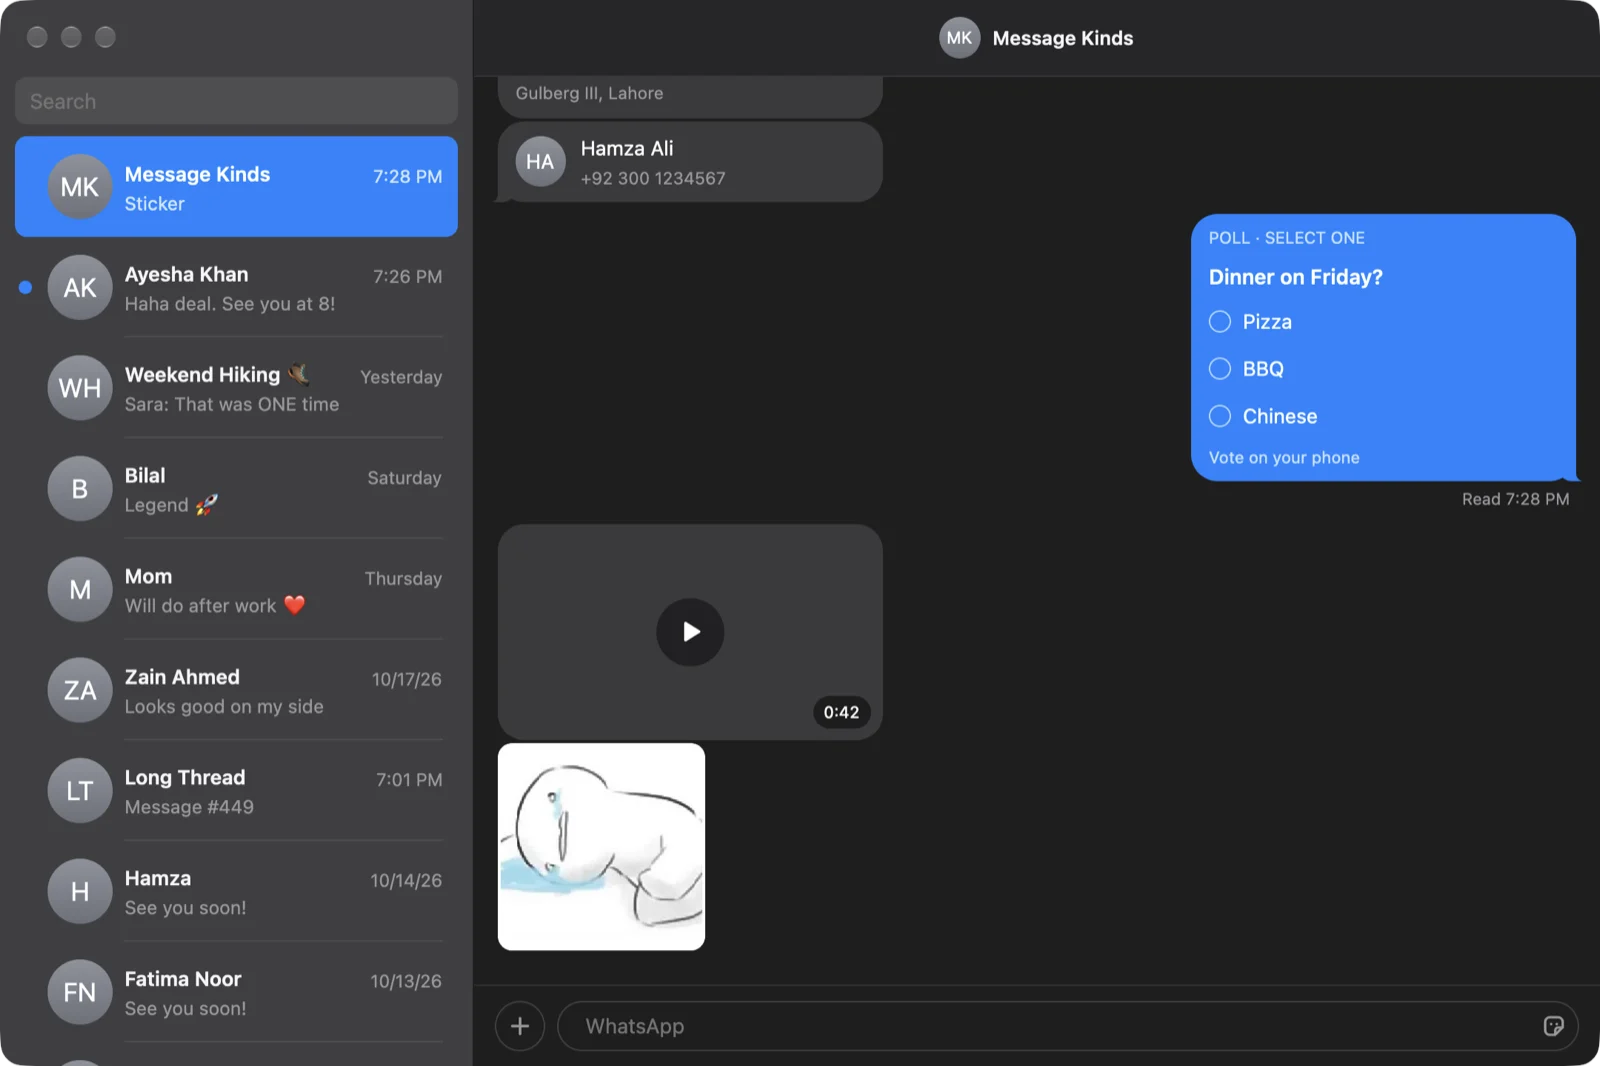
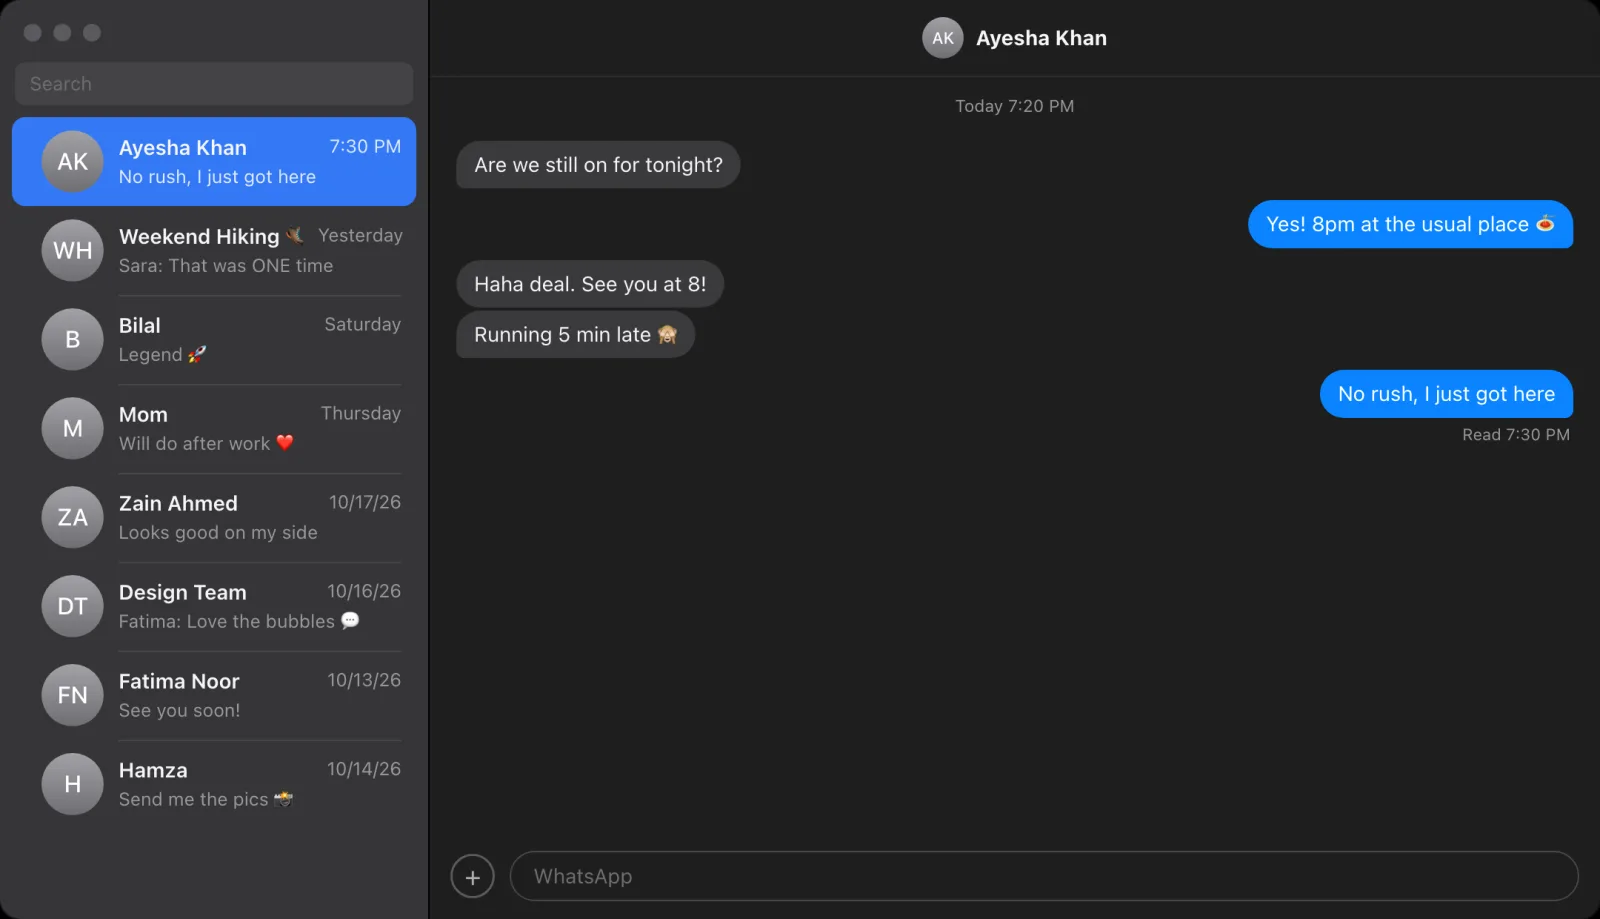
Replace the website screenshot with a live, clickable app replica
Messages arrive and get answered on their own; visitors can pick any
conversation or send a message. The social preview image is regenerated
from it, so no real sticker or chat content is published.

diff --git a/site/public/demo.js b/site/public/demo.js
@@ -1,0 +1,289 @@
+// A live, clickable replica of the app window: messages arrive, the "user" replies,
+// and visitors can pick any conversation or type their own message.
+
+const chats = [
+  { id: 'ayesha', name: 'Ayesha Khan', time: '7:26 PM', msgs: [
+    { text: 'Are we still on for tonight?' },
+    { out: true, text: 'Yes! 8pm at the usual place 🍝' },
+    { text: 'Haha deal. See you at 8!' },
+  ] },
+  { id: 'hiking', name: 'Weekend Hiking 🥾', group: true, time: 'Yesterday', msgs: [
+    { from: 'Sara', text: 'Who is bringing snacks this time?' },
+    { from: 'Bilal', text: 'I got chips. Last time I forgot the water…' },
+    { from: 'Sara', text: 'That was ONE time' },
+  ] },
+  { id: 'bilal', name: 'Bilal', time: 'Saturday', msgs: [
+    { out: true, text: 'Shipped it 🎉' },
+    { text: 'Legend 🚀' },
+  ] },
+  { id: 'mom', name: 'Mom', time: 'Thursday', msgs: [
+    { text: 'Call me when you are free' },
+    { out: true, text: 'Will do after work ❤' },
+  ] },
+  { id: 'zain', name: 'Zain Ahmed', time: '10/17/26', msgs: [
+    { out: true, text: 'Can you review the deck?' },
+    { text: 'Looks good on my side' },
+  ] },
+  { id: 'design', name: 'Design Team', group: true, time: '10/16/26', msgs: [
+    { from: 'Hamza', text: 'New icons are in Figma' },
+    { from: 'Fatima', text: 'Love the bubbles 💬' },
+  ] },
+  { id: 'fatima', name: 'Fatima Noor', time: '10/13/26', msgs: [{ text: 'See you soon!' }] },
+  { id: 'hamza', name: 'Hamza', time: '10/14/26', msgs: [{ text: 'Send me the pics 📸' }] },
+];
+
+// What happens next. `select` and `reply` stand down while the visitor is driving.
+const script = [
+  ['wait', 1400], ['in', 'ayesha', ['Running 5 min late 🙈', 'Parking now, 2 min!', 'Grabbing a table by the window']],
+  ['wait', 600], ['reply', 'ayesha', ['No rush, I just got here', 'Perfect, see you inside', 'Ooh nice, coming']],
+  ['wait', 1300], ['react', 'ayesha', ['❤', '👍', '😂']],
+  ['wait', 1700], ['in', 'hiking', ['Trail starts 7am sharp ⛰', 'Forecast says sunny ☀', 'Who has the first-aid kit?'], 'Bilal'],
+  ['wait', 1700], ['select', 'hiking'],
+  ['wait', 800], ['in', 'hiking', ['Bringing coffee for everyone ☕', 'I will bring the speaker 🔊', 'Meet at the gas station?'], 'Sara'],
+  ['wait', 500], ['reply', 'hiking', ["I'll drive 🚗", 'Count me in!', 'I have the kit 🩹']],
+  ['wait', 1900], ['in', 'mom', ['Did you eat?', 'Are you home yet?', 'Don’t forget your jacket']],
+  ['wait', 1500], ['select', 'mom'],
+  ['wait', 600], ['reply', 'mom', ['Yes mom, biryani 😋', 'Almost home!', 'Wearing it 🧥']],
+  ['wait', 1300], ['react', 'mom', ['❤', '❤', '👍']],
+  ['wait', 1800], ['in', 'zain', ['Pushed the fix, can you check?', 'Standup moved to 10', 'Lunch tomorrow?']],
+  ['wait', 1600], ['select', 'ayesha'],
+  ['wait', 2600],
+];
+
+const visitorReplies = [
+  'Haha, I see you found the demo 😄',
+  'This is a preview. The real thing runs on your Mac 💻',
+  'Download it and say hi from WhatsRusty!',
+  '😂😂',
+];
+
+export function startDemo(root) {
+  const reduce = matchMedia('(prefers-reduced-motion: reduce)').matches;
+  const $ = selector => root.querySelector(selector);
+  const list = $('.d-list'), thread = $('.d-thread'), title = $('.d-head strong'), titleAvatar = $('.d-head .d-av');
+  const form = $('.d-composer'), input = $('.d-input'), banner = $('.d-banner');
+  const byId = new Map(chats.map(chat => [chat.id, chat]));
+  let order = chats.map(chat => chat.id);
+  let selected = byId.get('ayesha');
+  let clock = 7 * 60 + 28;
+  let userUntil = 0;
+  let visible = false, wake = null;
+
+  const now = () => `${Math.floor(clock / 60) % 12 || 12}:${String(clock % 60).padStart(2, '0')} PM`;
+  const pick = (options, round) => options[round % options.length];
+  const userActive = () => Date.now() < userUntil;
+  const waitVisible = () => (visible && !document.hidden ? null : new Promise(resolve => { wake = resolve; }));
+  const sleep = ms => new Promise(resolve => setTimeout(resolve, ms)).then(waitVisible);
+  const wakeUp = () => { if (visible && !document.hidden && wake) { wake(); wake = null; } };
+
+  new IntersectionObserver(([entry]) => { visible = entry.isIntersecting; wakeUp(); }, { threshold: 0.3 }).observe(root);
+  document.addEventListener('visibilitychange', wakeUp);
+
+  function el(tag, className, text) {
+    const node = document.createElement(tag);
+    if (className) node.className = className;
+    if (text != null) node.textContent = text;
+    return node;
+  }
+  function initials(name) {
+    const words = name.split(/\s+/).filter(word => /^\p{L}/u.test(word));
+    return (words.length > 1 ? words[0][0] + words[1][0] : (words[0] ?? '?')[0]).toUpperCase();
+  }
+  function avatar(name, className = 'd-av') {
+    return el('span', className, initials(name));
+  }
+  function preview(chat) {
+    const last = chat.msgs.at(-1);
+    if (!last) return '';
+    return chat.group && !last.out && last.from ? `${last.from}: ${last.text}` : last.text;
+  }
+
+  // Sidebar rows are reused so a focused row keeps focus when the list reorders.
+  const rows = new Map();
+  function rowFor(chat) {
+    let li = rows.get(chat.id);
+    if (!li) {
+      li = el('li');
+      li.dataset.id = chat.id;
+      const button = el('button', 'd-row');
+      button.type = 'button';
+      button.append(el('span', 'd-dot'), avatar(chat.name), el('span', 'd-meta'));
+      button.addEventListener('click', () => { touch(); select(chat); });
+      li.append(button);
+      rows.set(chat.id, li);
+    }
+    const button = li.firstChild;
+    button.classList.toggle('is-selected', chat === selected);
+    button.classList.toggle('is-unread', !!chat.unread);
+    button.setAttribute('aria-current', chat === selected ? 'true' : 'false');
+    button.setAttribute('aria-label', `${chat.name}${chat.unread ? ', unread' : ''}: ${preview(chat)}`);
+    const meta = button.querySelector('.d-meta');
+    const top = el('span', 'd-top');
+    top.append(el('strong', null, chat.name), el('time', null, chat.time));
+    meta.replaceChildren(top, el('span', 'd-preview', preview(chat)));
+    return li;
+  }
+  function renderList() {
+    const before = new Map([...list.children].map(li => [li.dataset.id, li.getBoundingClientRect().top]));
+    const focused = list.contains(document.activeElement) ? document.activeElement : null;
+    for (const id of order) list.append(rowFor(byId.get(id)));
+    if (focused) focused.focus({ preventScroll: true });
+    if (reduce) return;
+    for (const li of list.children) {
+      const top = before.get(li.dataset.id);
+      const dy = top == null ? 0 : top - li.getBoundingClientRect().top;
+      if (dy) li.animate([{ transform: `translateY(${dy}px)` }, { transform: 'none' }], { duration: 380, easing: 'cubic-bezier(0.23, 1, 0.32, 1)' });
+    }
+  }
+
+  function renderThread({ animateLast = false, popReaction = false } = {}) {
+    const chat = selected;
+    title.textContent = chat.name;
+    titleAvatar.textContent = initials(chat.name);
+    const nodes = [el('div', 'd-stamp', 'Today 7:20 PM')];
+    const lastOut = chat.msgs.findLastIndex(msg => msg.out);
+    chat.msgs.forEach((msg, i) => {
+      const prev = chat.msgs[i - 1], next = chat.msgs[i + 1];
+      const sameAsPrev = prev && !!prev.out === !!msg.out && prev.from === msg.from;
+      const sameAsNext = next && !!next.out === !!msg.out && next.from === msg.from;
+      if (chat.group && !msg.out && !sameAsPrev) nodes.push(el('div', 'd-sender', msg.from));
+      const line = el('div', `d-line ${msg.out ? 'out' : 'in'}${sameAsPrev ? '' : ' first'}`);
+      if (chat.group && !msg.out) line.append(sameAsNext ? el('span', 'd-av-slot') : avatar(msg.from, 'd-av d-av-sm'));
+      const bubble = el('div', `d-b${sameAsNext ? '' : ' tail'}`, msg.text);
+      if (msg.react) {
+        const tap = el('span', 'd-tap', msg.react);
+        if (popReaction && i === lastOut) tap.classList.add('pop');
+        bubble.append(tap);
+      }
+      line.append(bubble);
+      if (animateLast && i === chat.msgs.length - 1 && !reduce) line.classList.add('new');
+      nodes.push(line);
+      if (i === lastOut && msg.status) nodes.push(el('div', 'd-receipt', msg.status));
+    });
+    if (chat.typing) {
+      const line = el('div', 'd-line in first');
+      if (chat.group) line.append(avatar(chat.typing, 'd-av d-av-sm'));
+      const typing = el('div', 'd-b tail d-typing');
+      typing.setAttribute('aria-label', `${chat.typing} is typing`);
+      typing.append(el('i'), el('i'), el('i'));
+      line.append(typing);
+      if (!reduce) line.classList.add('new');
+      nodes.push(line);
+    }
+    thread.replaceChildren(...nodes);
+    thread.scrollTo({ top: thread.scrollHeight, behavior: reduce || !animateLast ? 'auto' : 'smooth' });
+  }
+
+  function select(chat) {
+    if (chat === selected) return;
+    selected = chat;
+    chat.unread = false;
+    input.value = '';
+    form.classList.remove('has-text');
+    renderList();
+    renderThread();
+  }
+  function bump(chat) {
+    clock += 1;
+    chat.time = now();
+    order = [chat.id, ...order.filter(id => id !== chat.id)];
+    if (chat.msgs.length > 14) chat.msgs.splice(0, chat.msgs.length - 14);
+  }
+  function showBanner(chat, msg) {
+    const text = el('div');
+    banner.replaceChildren(avatar(chat.name), text);
+    text.append(el('strong', null, chat.name), el('span', null, chat.group ? `${msg.from}: ${msg.text}` : msg.text));
+    banner.classList.remove('show');
+    void banner.offsetWidth;
+    banner.classList.add('show');
+  }
+
+  async function incoming(chat, text, from) {
+    const sender = from ?? chat.name.split(' ')[0];
+    if (chat === selected) {
+      chat.typing = sender;
+      renderThread({ animateLast: true });
+      await sleep(1500);
+      chat.typing = null;
+    }
+    const msg = { text, from: chat.group ? sender : undefined };
+    chat.msgs.push(msg);
+    bump(chat);
+    if (chat !== selected) {
+      chat.unread = true;
+      showBanner(chat, msg);
+    } else {
+      // Our last message has now been seen.
+      const lastOut = chat.msgs.findLast(m => m.out);
+      if (lastOut?.status) lastOut.status = `Read ${now()}`;
+      renderThread({ animateLast: true });
+    }
+    renderList();
+  }
+  async function send(chat, text) {
+    chat.msgs.push({ out: true, text, status: 'Delivered' });
+    bump(chat);
+    renderList();
+    renderThread({ animateLast: true });
+    await sleep(1200);
+    const msg = chat.msgs.findLast(m => m.out);
+    if (msg && !chat.group) { msg.status = `Read ${now()}`; if (chat === selected) renderThread(); }
+  }
+  async function typeAndSend(chat, text) {
+    if (reduce) { await send(chat, text); return; }
+    for (const ch of text) {
+      if (userActive() || selected !== chat) { input.value = ''; form.classList.remove('has-text'); return; }
+      input.value += ch;
+      form.classList.add('has-text');
+      await sleep(35 + Math.random() * 55);
+    }
+    await sleep(250);
+    input.value = '';
+    form.classList.remove('has-text');
+    await send(chat, text);
+  }
+  function react(chat, emoji) {
+    const msg = chat.msgs.findLast(m => m.out);
+    if (!msg) return;
+    msg.react = emoji;
+    if (chat === selected) renderThread({ popReaction: true });
+  }
+
+  // The visitor can take over: click any chat, or type and send a message.
+  function touch() { userUntil = Date.now() + 20000; }
+  root.addEventListener('pointerdown', touch);
+  root.addEventListener('keydown', touch);
+  input.addEventListener('input', () => form.classList.toggle('has-text', input.value.trim() !== ''));
+  let replyIndex = 0;
+  form.addEventListener('submit', async event => {
+    event.preventDefault();
+    const text = input.value.trim();
+    if (!text) return;
+    touch();
+    const chat = selected;
+    input.value = '';
+    form.classList.remove('has-text');
+    await send(chat, text.slice(0, 200));
+    await sleep(500);
+    const member = chat.group ? chat.msgs.findLast(m => !m.out)?.from ?? 'Sara' : undefined;
+    await incoming(chat, visitorReplies[replyIndex++ % visitorReplies.length], member);
+  });
+
+  renderList();
+  renderThread();
+  if (reduce) return;
+
+  (async () => {
+    await waitVisible();
+    for (let round = 0; ; round++) {
+      for (const [kind, id, value, from] of script) {
+        if (kind === 'wait') { await sleep(id); continue; }
+        const chat = byId.get(id);
+        if (kind === 'in') await incoming(chat, pick(value, round), from);
+        else if (kind === 'select' && !userActive()) select(chat);
+        else if (kind === 'reply' && !userActive() && selected === chat) await typeAndSend(chat, pick(value, round));
+        else if (kind === 'react') react(chat, pick(value, round));
+      }
+    }
+  })();
+}

diff --git a/site/public/styles.css b/site/public/styles.css
@@ -191,3 +191,84 @@ code { font: 0.9em ui-monospace, "SF Mono", monospace; }
   .s-update .t1 { opacity: 0; } .s-update .bar b { transform: none; }
   .s-link .wire b { display: none; } .s-link .scan { top: 50%; }
 }
+
+/* Live app replica (always dark, like the screenshot it replaces). */
+.demo { --d-bg: #1e1e1e; --d-side: #353537; --d-line: #2c2c2e; --d-gray: #3a3a3c; --d-text: #f5f5f7; --d-muted: #98989d; --d-blue: #0a84ff; --d-select: #3478f6;
+  position: relative; display: grid; grid-template-columns: 290px minmax(0, 1fr); height: 620px; border-radius: 14px; overflow: hidden; text-align: left;
+  color: var(--d-text); background: var(--d-bg); font-size: 14px; line-height: 1.3; color-scheme: dark;
+  box-shadow: 0 30px 80px rgb(0 0 0 / 0.22), 0 0 0 1px rgb(255 255 255 / 0.08); }
+.demo noscript img { position: absolute; inset: 0; width: 100%; height: 100%; object-fit: cover; }
+.d-side { display: flex; flex-direction: column; min-height: 0; background: var(--d-side); border-right: 1px solid #000; }
+.d-lights { display: flex; gap: 8px; padding: 16px 16px 14px; }
+.d-lights i { width: 12px; height: 12px; border-radius: 50%; background: #5a5a5e; }
+.d-search { margin: 0 10px 8px; padding: 6px 10px; border-radius: 7px; background: rgb(255 255 255 / 0.07); color: #6e6e73; font-size: 13px; }
+.d-list { list-style: none; margin: 0; padding: 0 8px 8px; overflow-y: auto; scrollbar-width: none; flex: 1; }
+.d-row { all: unset; box-sizing: border-box; position: relative; display: flex; align-items: center; gap: 10px; width: 100%; padding: 9px 10px 9px 20px; border-radius: 9px; cursor: default; }
+.d-row:focus-visible { outline: 2px solid var(--d-blue); outline-offset: -2px; }
+.d-row.is-selected { background: var(--d-select); }
+.d-dot { position: absolute; left: 5px; width: 9px; height: 9px; border-radius: 50%; background: var(--d-blue); opacity: 0; transform: scale(.4); transition: opacity 200ms, transform 300ms var(--ease); }
+.d-row.is-unread .d-dot { opacity: 1; transform: none; }
+.d-row.is-selected .d-dot { background: #fff; }
+.d-av { flex: none; display: grid; place-items: center; width: 42px; height: 42px; border-radius: 50%; color: #fff; font-weight: 500; font-size: 16px;
+  background: linear-gradient(#a1a1a6, #6e6e73); }
+.d-meta { flex: 1; min-width: 0; display: grid; gap: 2px; padding: 2px 0; }
+.d-list li + li .d-row::before { content: ""; position: absolute; top: 0; left: 72px; right: 10px; height: 1px; background: rgb(255 255 255 / 0.09); }
+.d-list li + li .d-row.is-selected::before, .d-list li:has(.is-selected) + li .d-row::before { display: none; }
+.d-top { display: flex; justify-content: space-between; gap: 8px; }
+.d-top strong { font-weight: 600; overflow: hidden; white-space: nowrap; text-overflow: ellipsis; }
+.d-top time, .d-preview { color: var(--d-muted); font-size: 12.5px; }
+.d-top time { flex: none; }
+.d-preview { overflow: hidden; display: -webkit-box; -webkit-line-clamp: 2; -webkit-box-orient: vertical; }
+.d-row.is-unread .d-top strong { font-weight: 700; }
+.d-row.is-selected .d-top time, .d-row.is-selected .d-preview { color: rgb(255 255 255 / 0.85); }
+.d-conv { position: relative; display: flex; flex-direction: column; min-width: 0; min-height: 0; }
+.d-head { display: flex; align-items: center; justify-content: center; gap: 8px; height: 52px; flex: none; border-bottom: 1px solid var(--d-line); }
+.d-head .d-av { width: 28px; height: 28px; font-size: 11px; }
+.d-thread { flex: 1; overflow-y: auto; scrollbar-width: none; display: flex; flex-direction: column; gap: 2px; padding: 12px 18px 8px; }
+.d-stamp { align-self: center; margin-bottom: 8px; color: var(--d-muted); font-size: 11.5px; }
+.d-sender { margin: 8px 0 1px 44px; color: var(--d-muted); font-size: 11.5px; }
+.d-line { display: flex; align-items: flex-end; gap: 8px; }
+.d-line.first { margin-top: 6px; }
+.d-sender + .d-line.first { margin-top: 0; }
+.d-line.out { justify-content: flex-end; }
+.d-line.new { animation: d-in 320ms var(--ease) both; }
+@keyframes d-in { from { opacity: 0; transform: translateY(10px) scale(.96); } }
+.d-av-sm, .d-av-slot { width: 26px; height: 26px; font-size: 10px; flex: none; }
+.d-b { position: relative; max-width: 62%; padding: 7px 12px; border-radius: 18px; background: var(--d-gray); overflow-wrap: anywhere; }
+.d-line.out .d-b { background: var(--d-blue); color: #fff; }
+.d-line.in .d-b.tail { border-bottom-left-radius: 6px; }
+.d-line.out .d-b.tail { border-bottom-right-radius: 6px; }
+.d-tap { position: absolute; top: -13px; left: -12px; display: grid; place-items: center; width: 26px; height: 26px; border-radius: 50%; font-size: 12px;
+  background: var(--d-gray); box-shadow: 0 0 0 2px var(--d-bg); }
+.d-tap.pop { animation: d-pop 420ms var(--ease) both; }
+@keyframes d-pop { from { transform: scale(.2); opacity: 0; } 60% { transform: scale(1.25); opacity: 1; } }
+.d-receipt { align-self: flex-end; margin: 2px 2px 0; color: var(--d-muted); font-size: 11px; }
+.d-typing { display: flex; gap: 4px; padding: 11px 13px; }
+.d-typing i { width: 7px; height: 7px; border-radius: 50%; background: #8e8e93; animation: d-dots 1.2s ease-in-out infinite; }
+.d-typing i:nth-child(2) { animation-delay: .15s; } .d-typing i:nth-child(3) { animation-delay: .3s; }
+@keyframes d-dots { 0%, 60%, 100% { opacity: .35; transform: none; } 30% { opacity: 1; transform: translateY(-2px); } }
+.d-composer { display: flex; align-items: center; gap: 10px; padding: 10px 14px 12px; }
+.d-plus { display: grid; place-items: center; flex: none; width: 30px; height: 30px; border-radius: 50%; border: 1.5px solid #5a5a5e; color: #aeaeb2; font-size: 18px; line-height: 1; }
+.d-field { flex: 1; display: flex; align-items: center; height: 34px; padding: 0 3px 0 13px; border-radius: 17px; border: 1px solid #48484a; }
+.d-input { flex: 1; min-width: 0; border: 0; outline: 0; background: none; color: var(--d-text); font: inherit; caret-color: var(--d-blue); }
+.d-input::placeholder { color: #6e6e73; }
+.d-send { flex: none; display: grid; place-items: center; width: 28px; height: 28px; padding: 0; border: 0; border-radius: 50%; background: var(--d-blue); cursor: pointer;
+  opacity: 0; transform: scale(.4); transition: opacity 150ms, transform 250ms var(--ease); }
+.d-composer.has-text .d-send { opacity: 1; transform: none; }
+.d-send svg { width: 16px; fill: none; stroke: #fff; stroke-width: 3; stroke-linecap: round; stroke-linejoin: round; }
+.d-banner { position: absolute; top: 12px; right: 12px; z-index: 2; display: flex; gap: 10px; align-items: center; width: 270px; padding: 10px 12px; border-radius: 14px;
+  background: rgb(58 58 60 / 0.92); backdrop-filter: blur(20px); box-shadow: 0 10px 30px rgb(0 0 0 / 0.35); transform: translateX(calc(100% + 24px)); pointer-events: none; }
+.d-banner.show { animation: d-banner 3.2s var(--ease) both; }
+@keyframes d-banner { 0% { transform: translateX(calc(100% + 24px)); } 12%, 82% { transform: none; } 100% { transform: translateX(calc(100% + 24px)); } }
+.d-banner .d-av { width: 32px; height: 32px; font-size: 12px; }
+.d-banner div { display: grid; min-width: 0; font-size: 12.5px; }
+.d-banner span { color: #c7c7cc; overflow: hidden; white-space: nowrap; text-overflow: ellipsis; }
+@media (max-width: 720px) {
+  .demo { grid-template-columns: 76px minmax(0, 1fr); height: 540px; }
+  .d-meta, .d-search, .d-list li + li .d-row::before { display: none; }
+  .d-lights { gap: 5px; padding-left: 12px; }
+  .d-lights i { width: 10px; height: 10px; }
+  .d-row { justify-content: center; padding-left: 10px; }
+  .d-b { max-width: 80%; }
+  .d-banner { width: 210px; }
+}

diff --git a/site/public/index.html b/site/public/index.html
@@ -25,7 +25,13 @@
 <p class="release-detail" data-release-detail>Apple silicon · macOS 14 or later</p>
 <p class="notice" role="note"><strong>Unofficial.</strong> WhatsRusty is an independent project, not made by or affiliated with WhatsApp or Meta. Third-party clients may violate WhatsApp’s Terms of Service and can get an account banned. Consider a secondary number.</p>
 </section>
-<figure class="shot shell"><img src="/images/app-mock.webp" width="1600" height="1067" alt="WhatsRusty showing a chat list on the left and a conversation with a poll, a contact card, a video and a sticker in iMessage-style bubbles." fetchpriority="high"><figcaption>Sample conversations from the app’s demo mode. No real chats shown.</figcaption></figure>
+<figure class="shot shell"><div class="demo" data-demo role="group" aria-label="Interactive preview of WhatsRusty with sample chats. Pick a conversation or send a message.">
+<aside class="d-side"><div class="d-lights" aria-hidden="true"><i></i><i></i><i></i></div><div class="d-search" aria-hidden="true">Search</div><ul class="d-list" aria-label="Conversations"></ul></aside>
+<section class="d-conv"><header class="d-head"><span class="d-av" aria-hidden="true"></span><strong></strong></header><div class="d-thread" aria-live="polite"></div>
+<form class="d-composer"><span class="d-plus" aria-hidden="true">+</span><label class="d-field"><input class="d-input" placeholder="WhatsApp" aria-label="Message (demo)" autocomplete="off" maxlength="200"><button class="d-send" type="submit" aria-label="Send"><svg viewBox="0 0 24 24" aria-hidden="true"><path d="M12 5v14M12 5l-6 6M12 5l6 6"/></svg></button></label></form></section>
+<div class="d-banner" aria-hidden="true"></div>
+<noscript><img src="/images/app-mock.webp" width="1600" height="919" alt="WhatsRusty showing a chat list and a conversation in iMessage-style bubbles."></noscript></div>
+<figcaption>A live preview with sample chats. Click a conversation, or say hi.</figcaption></figure>
 <section class="features shell" id="features" aria-labelledby="features-title"><h2 id="features-title">Feels at home on your Mac.</h2><div class="grid">
 <article><div class="stage s-chat" aria-hidden="true"><div class="m in a1">Dinner tonight?<span class="tap">❤</span></div><div class="m out a2">Yes! 8pm 🍕</div><div class="m out a3">I'll book a table</div><span class="read a4">Read 8:02 PM</span></div><h3>Messages look and feel</h3><p>Blue and gray bubbles, tapbacks, read receipts under the last message, and a sidebar that looks like the one you use every day.</p></article>
 <article><div class="stage s-fast" aria-hidden="true"><div class="rows"><i style="--w:72%"></i><i style="--w:48%"></i><i style="--w:84%"></i><i style="--w:60%"></i><i style="--w:40%"></i><i style="--w:76%"></i><i style="--w:52%"></i><i style="--w:68%"></i><i style="--w:72%"></i><i style="--w:48%"></i><i style="--w:84%"></i><i style="--w:60%"></i><i style="--w:40%"></i><i style="--w:76%"></i><i style="--w:52%"></i><i style="--w:68%"></i></div><span class="fps"><b></b>120 fps</span></div><h3>Native and fast</h3><p>Built in Rust with GPUI, the GPU-accelerated UI framework from Zed. No browser, no Electron.</p></article>

diff --git a/site/public/app.js b/site/public/app.js
@@ -31,3 +31,6 @@ if ('IntersectionObserver' in window) {
 } else {
   stages.forEach(stage => stage.classList.add('on'));
 }
+
+const demo = document.querySelector('[data-demo]');
+if (demo) import('./demo.js').then(({ startDemo }) => startDemo(demo));
